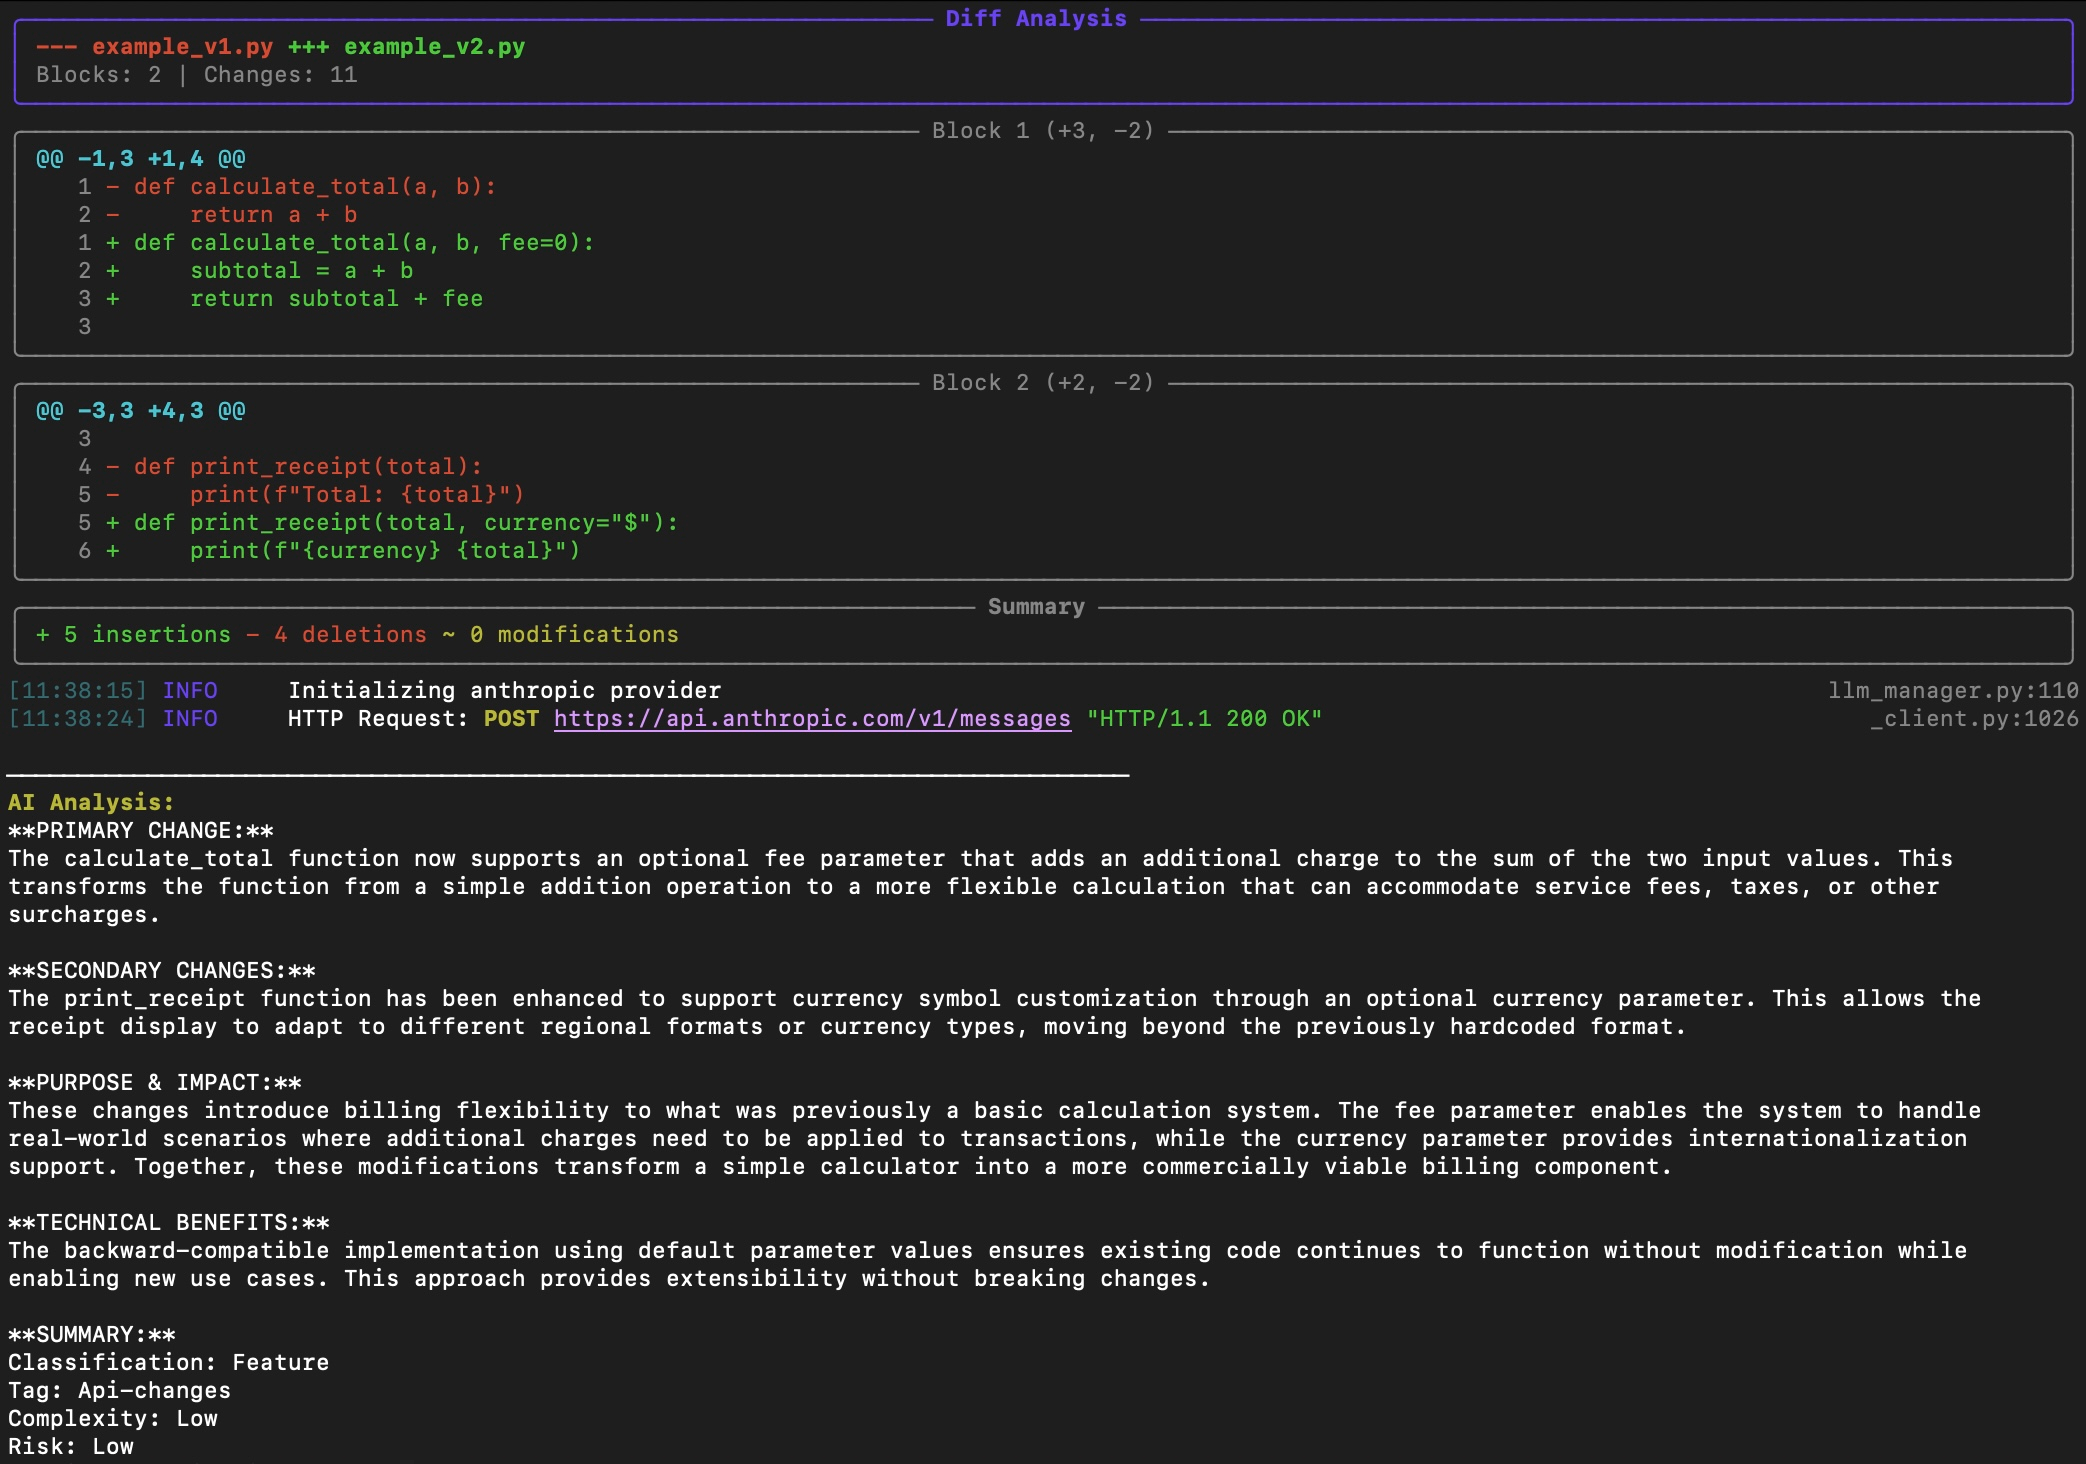
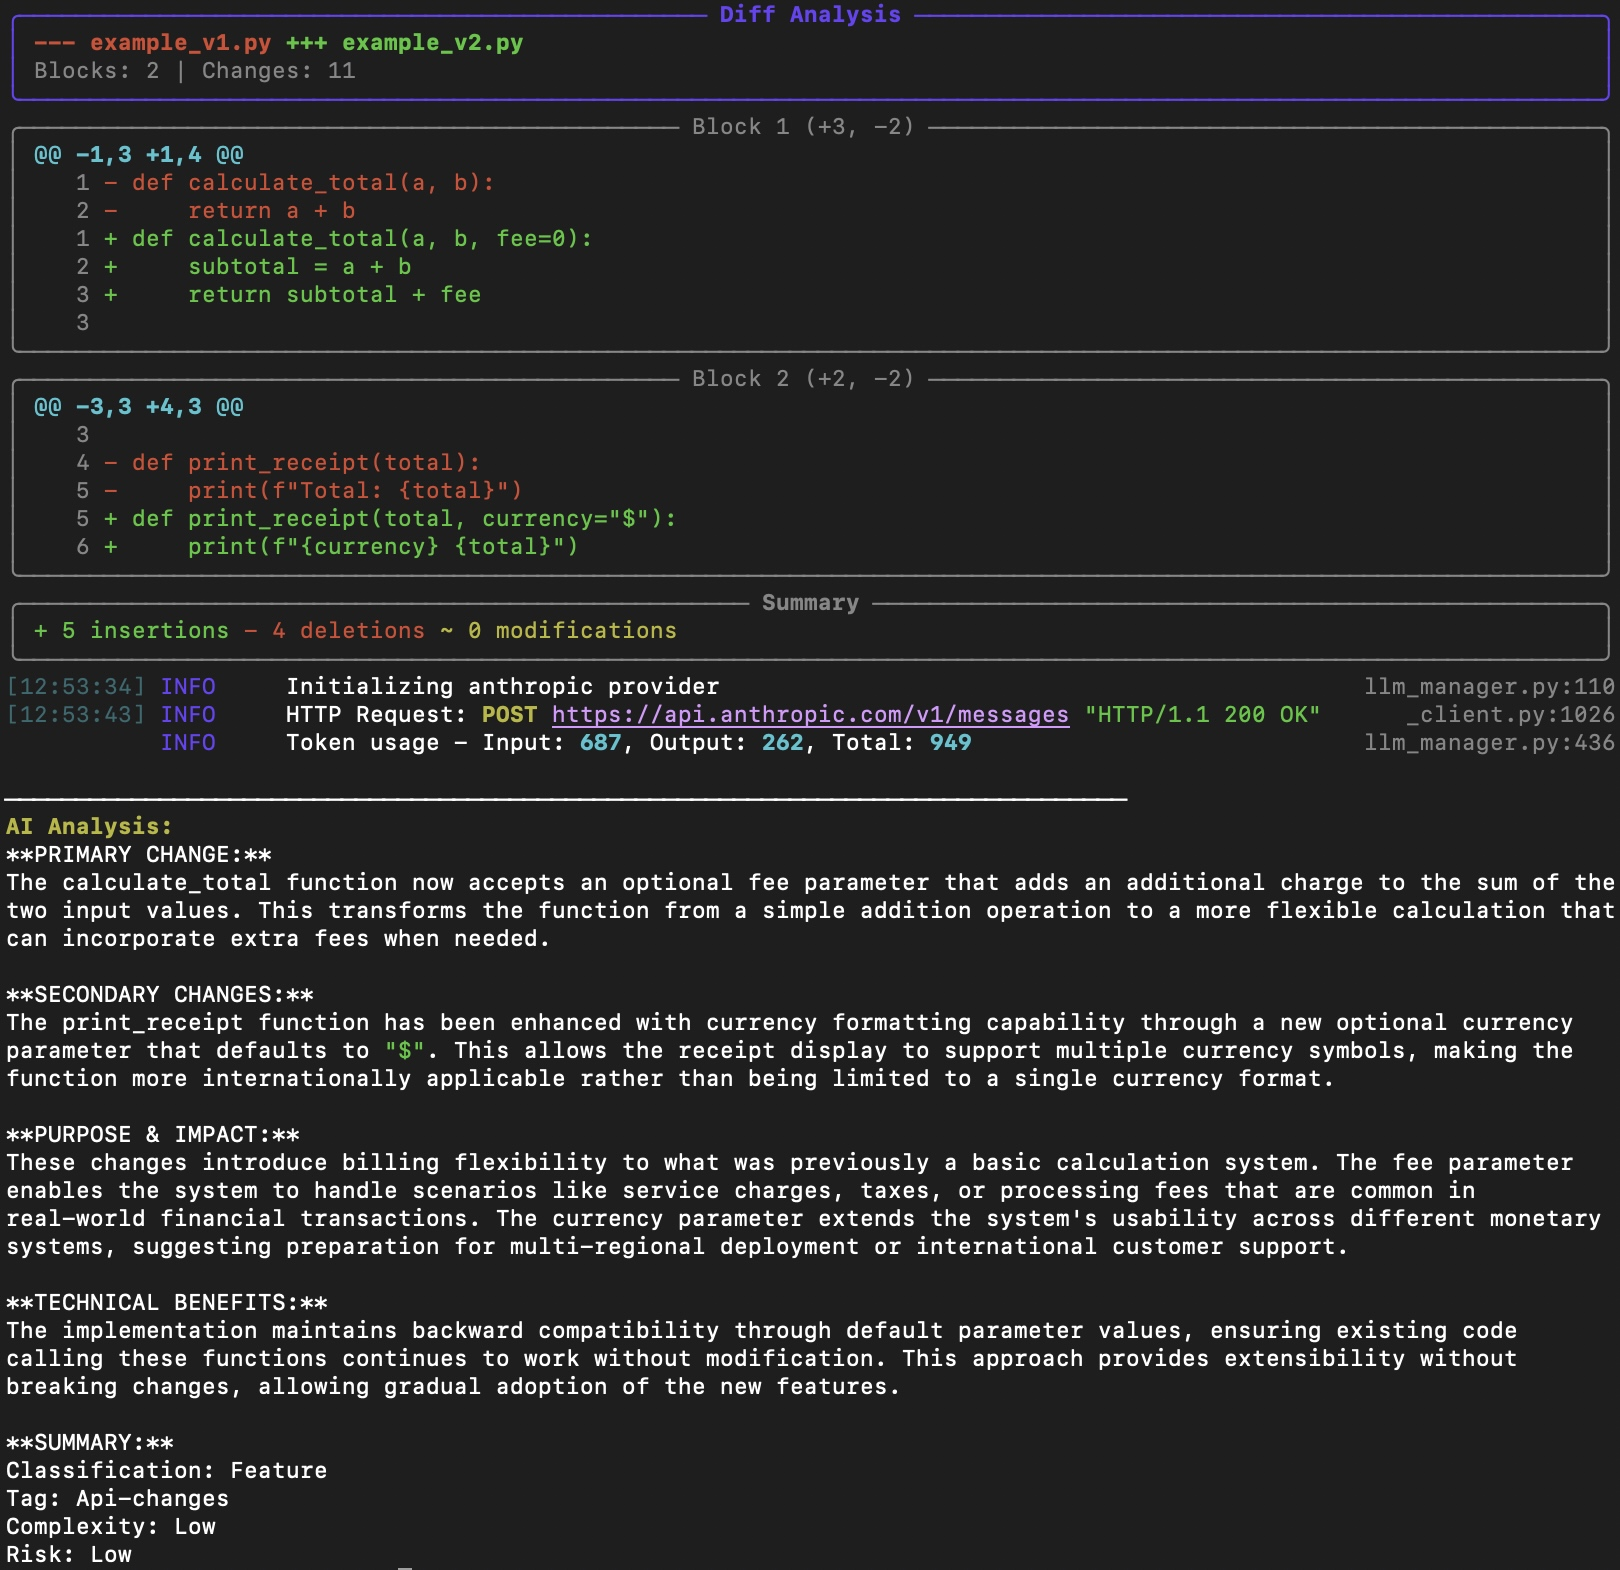
Add token usage log

Changed region(s): [[0.0, 0.0, 1.0, 1.0], [0.3086, 0.123, 0.3395, 0.1537]]

diff --git a/src/diffsense/model_providers.py b/src/diffsense/model_providers.py
@@ -5,7 +5,7 @@ Model providers for different LLM backends
 import os
 import logging
 from abc import ABC, abstractmethod
-from typing import Optional, Dict, Any, List
+from typing import Optional, Dict, Any, List, Tuple
 import contextlib
 import io
 
@@ -23,7 +23,7 @@ class ModelProvider(ABC):
     """
 
     @abstractmethod
-    def generate(self, messages: List[Dict[str, str]], max_tokens: int, temperature: float) -> str:
+    def generate(self, messages: List[Dict[str, str]], max_tokens: int, temperature: float) -> Tuple[str, Dict[str, int]]:
         """
         Generate text from messages
 
@@ -32,7 +32,7 @@ class ModelProvider(ABC):
             max_tokens: Maximum tokens to generate
             temperature: Sampling temperature
 
-        Returns the generated text response
+        Returns a tuple of (generated text, token usage dict with 'input' and 'output' keys)
         """
         pass
 
@@ -59,7 +59,7 @@ class LocalModelProvider(ModelProvider):
         """
         self.model_instance = model_instance
 
-    def generate(self, messages: List[Dict[str, str]], max_tokens: int, temperature: float) -> str:
+    def generate(self, messages: List[Dict[str, str]], max_tokens: int, temperature: float) -> Tuple[str, Dict[str, int]]:
         """Generate using local model via llama-cpp-python"""
         if self.model_instance is None:
             raise ModelError("Model not loaded")
@@ -84,8 +84,14 @@ class LocalModelProvider(ModelProvider):
             if not content:
                 raise ModelError("Model returned empty content")
 
+            # Extract token usage from response
+            token_usage = {
+                "input": response.get("usage", {}).get("prompt_tokens", 0),
+                "output": response.get("usage", {}).get("completion_tokens", 0)
+            }
+
             logger.debug("Local model inference completed successfully")
-            return content
+            return content, token_usage
 
         except Exception as e:
             raise ModelError(f"Local inference failed: {e}") from e
@@ -116,7 +122,7 @@ class AnthropicProvider(ModelProvider):
             except ImportError:
                 logger.warning("anthropic package not installed. Install with: pip install anthropic")
 
-    def generate(self, messages: List[Dict[str, str]], max_tokens: int, temperature: float) -> str:
+    def generate(self, messages: List[Dict[str, str]], max_tokens: int, temperature: float) -> Tuple[str, Dict[str, int]]:
         """Generate using Anthropic API"""
         if not self._client:
             raise ModelError("Anthropic client not initialized. Check API key and anthropic package installation.")
@@ -152,8 +158,14 @@ class AnthropicProvider(ModelProvider):
             if not content:
                 raise ModelError("Anthropic returned empty content")
 
+            # Extract token usage
+            token_usage = {
+                "input": response.usage.input_tokens,
+                "output": response.usage.output_tokens
+            }
+
             logger.debug("Anthropic API call completed successfully")
-            return content
+            return content, token_usage
 
         except Exception as e:
             raise ModelError(f"Anthropic API call failed: {e}") from e
@@ -184,7 +196,7 @@ class OpenAIProvider(ModelProvider):
             except ImportError:
                 logger.warning("openai package not installed. Install with: pip install openai")
 
-    def generate(self, messages: List[Dict[str, str]], max_tokens: int, temperature: float) -> str:
+    def generate(self, messages: List[Dict[str, str]], max_tokens: int, temperature: float) -> Tuple[str, Dict[str, int]]:
         """Generate using OpenAI API"""
         if not self._client:
             raise ModelError("OpenAI client not initialized. Check API key and openai package installation.")
@@ -205,8 +217,14 @@ class OpenAIProvider(ModelProvider):
             if not content:
                 raise ModelError("OpenAI returned empty content")
 
+            # Extract token usage
+            token_usage = {
+                "input": response.usage.prompt_tokens,
+                "output": response.usage.completion_tokens
+            }
+
             logger.debug("OpenAI API call completed successfully")
-            return content
+            return content, token_usage
 
         except Exception as e:
             raise ModelError(f"OpenAI API call failed: {e}") from e

diff --git a/tests/test_model_providers.py b/tests/test_model_providers.py
@@ -40,7 +40,11 @@ class TestLocalModelProvider:
         mock_model.create_chat_completion.return_value = {
             "choices": [{
                 "message": {"content": "Test response"}
-            }]
+            }],
+            "usage": {
+                "prompt_tokens": 50,
+                "completion_tokens": 20
+            }
         }
 
         provider = LocalModelProvider(mock_model)
@@ -49,9 +53,11 @@ class TestLocalModelProvider:
             {"role": "user", "content": "User prompt"}
         ]
 
-        result = provider.generate(messages, max_tokens=100, temperature=0.5)
+        result, token_usage = provider.generate(messages, max_tokens=100, temperature=0.5)
 
         assert result == "Test response"
+        assert token_usage["input"] == 50
+        assert token_usage["output"] == 20
         mock_model.create_chat_completion.assert_called_once()
 
         # Check call arguments
@@ -60,6 +66,24 @@ class TestLocalModelProvider:
         assert call_args.kwargs["max_tokens"] == 100
         assert call_args.kwargs["temperature"] == 0.5
         assert "stop" in call_args.kwargs
+
+    def test_generate_success_without_usage(self):
+        """Test successful generation without usage data"""
+        # Mock model response without usage
+        mock_model = Mock()
+        mock_model.create_chat_completion.return_value = {
+            "choices": [{
+                "message": {"content": "Test response"}
+            }]
+        }
+
+        provider = LocalModelProvider(mock_model)
+
+        result, token_usage = provider.generate([{"role": "user", "content": "test"}], 100, 0.5)
+
+        assert result == "Test response"
+        assert token_usage["input"] == 0
+        assert token_usage["output"] == 0
 
     def test_generate_empty_response(self):
         """Test handling of empty response"""
@@ -138,6 +162,8 @@ class TestAnthropicProvider:
         mock_client = Mock()
         mock_response = Mock()
         mock_response.content = [Mock(text="Anthropic response")]
+        mock_response.usage.input_tokens = 100
+        mock_response.usage.output_tokens = 50
         mock_client.messages.create.return_value = mock_response
         mock_anthropic.Anthropic.return_value = mock_client
 
@@ -150,9 +176,11 @@ class TestAnthropicProvider:
                     {"role": "user", "content": "User prompt"}
                 ]
 
-                result = provider.generate(messages, max_tokens=1000, temperature=0.7)
+                result, token_usage = provider.generate(messages, max_tokens=1000, temperature=0.7)
 
                 assert result == "Anthropic response"
+                assert token_usage["input"] == 100
+                assert token_usage["output"] == 50
 
                 # Check API call
                 mock_client.messages.create.assert_called_once()
@@ -224,6 +252,8 @@ class TestOpenAIProvider:
         mock_choice = Mock()
         mock_choice.message.content = "OpenAI response"
         mock_response.choices = [mock_choice]
+        mock_response.usage.prompt_tokens = 80
+        mock_response.usage.completion_tokens = 30
         mock_client.chat.completions.create.return_value = mock_response
         mock_openai.OpenAI.return_value = mock_client
 
@@ -236,9 +266,11 @@ class TestOpenAIProvider:
                     {"role": "user", "content": "User prompt"}
                 ]
 
-                result = provider.generate(messages, max_tokens=1000, temperature=0.7)
+                result, token_usage = provider.generate(messages, max_tokens=1000, temperature=0.7)
 
                 assert result == "OpenAI response"
+                assert token_usage["input"] == 80
+                assert token_usage["output"] == 30
 
                 # Check API call
                 mock_client.chat.completions.create.assert_called_once()

diff --git a/src/diffsense/llm_manager.py b/src/diffsense/llm_manager.py
@@ -424,15 +424,23 @@ MANDATORY RULES:
                 }
             ]
 
-            # Delegate to provider
-            content = self._provider.generate(
+            # Delegate to provider - returns tuple (content, token_usage)
+            content, token_usage = self._provider.generate(
                 messages=messages,
                 max_tokens=self.max_tokens,
                 temperature=self.temperature
             )
 
+            # Log token usage
+            total_tokens = token_usage.get("input", 0) + token_usage.get("output", 0)
+            logger.info(
+                f"Token usage - Input: {token_usage.get('input', 0)}, "
+                f"Output: {token_usage.get('output', 0)}, "
+                f"Total: {total_tokens}"
+            )
+
             logger.debug("Model inference completed successfully")
-            return content
+            return content  # Return only the content string, not the tuple
 
         except Exception as e:
             raise ModelError(f"Inference failed: {e}") from e

diff --git a/tests/test_llm_manager.py b/tests/test_llm_manager.py
@@ -365,7 +365,7 @@ class TestLLMManager:
         # Setup mock
         mock_provider_instance = Mock()
         mock_provider_instance.is_available.return_value = True
-        mock_provider_instance.generate.return_value = "Anthropic analysis"
+        mock_provider_instance.generate.return_value = ("Anthropic analysis", {"input": 100, "output": 50})
         mock_anthropic_provider.return_value = mock_provider_instance
 
         with patch.dict(os.environ, {"DIFFSENSE_ANTHROPIC_API_KEY": "test-key"}):
@@ -385,7 +385,7 @@ class TestLLMManager:
         # Setup mock
         mock_provider_instance = Mock()
         mock_provider_instance.is_available.return_value = True
-        mock_provider_instance.generate.return_value = "OpenAI analysis"
+        mock_provider_instance.generate.return_value = ("OpenAI analysis", {"input": 80, "output": 30})
         mock_openai_provider.return_value = mock_provider_instance
 
         with patch.dict(os.environ, {"DIFFSENSE_OPENAI_API_KEY": "test-key"}):
